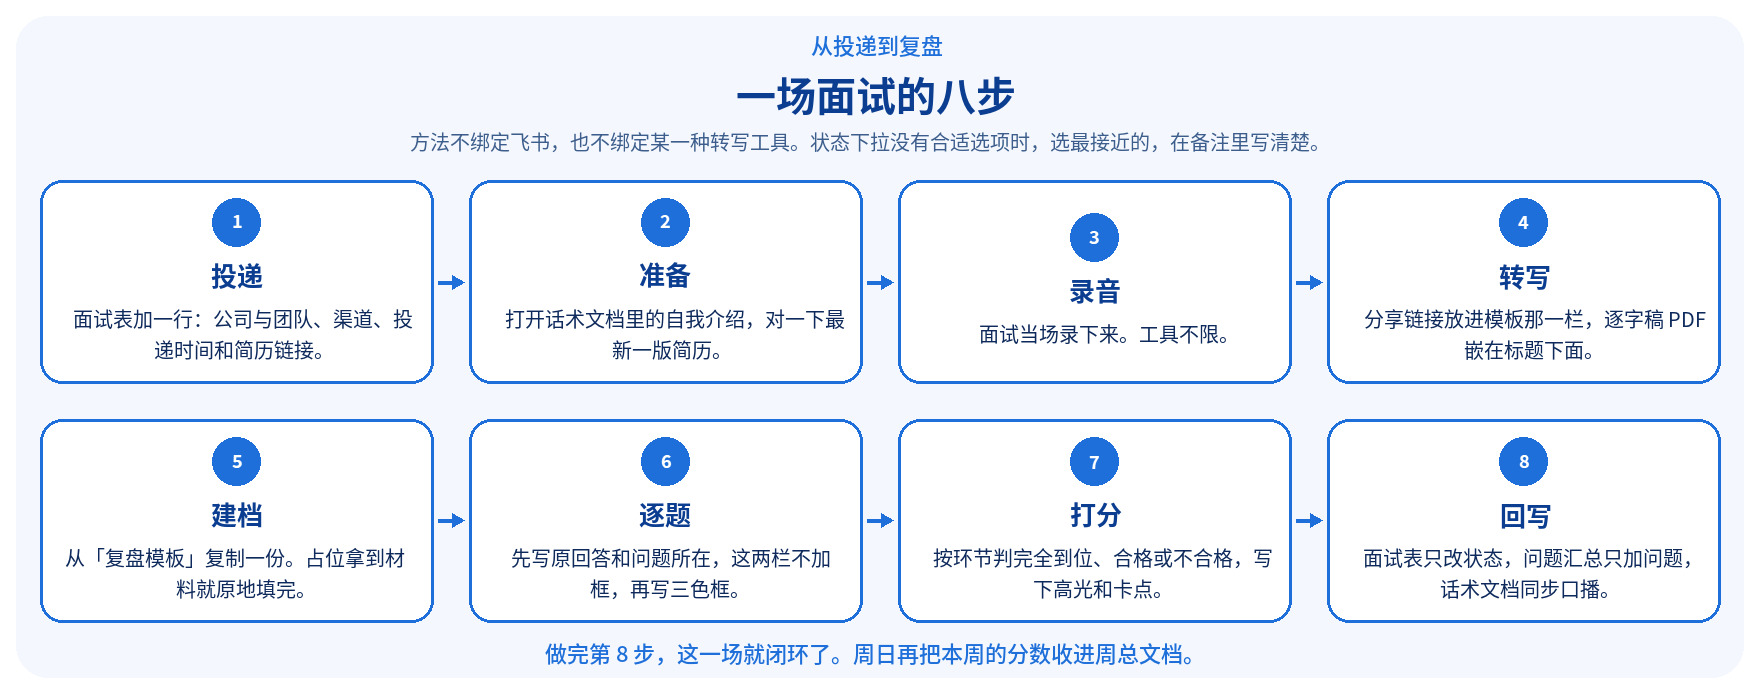
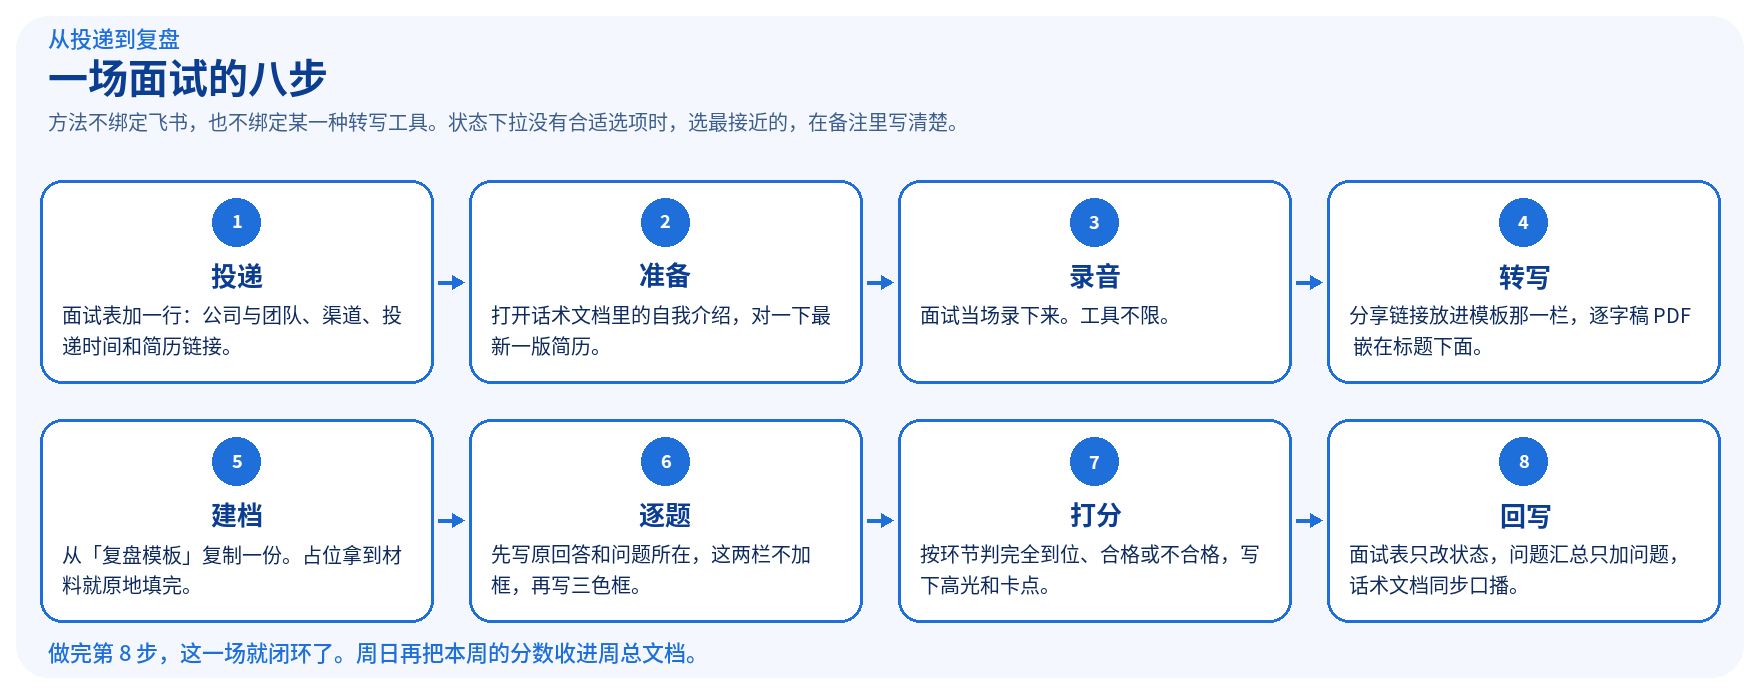
首页改回左对齐，卡片标题仍居中
正文、标题和鸽小包不再套居中容器。示意图里只保留两处居中：圆圈中的数字，以及每张卡片里的标题。卡片正文回到左对齐。

diff --git a/README.md b/README.md
@@ -1,5 +1,3 @@
-<div align="center" markdown="1">
-
 <img src="og.png" alt="AI 产品经理面试复盘手册：把每一场面试变成可复用的资产。一个入口、一岗一行、一场一档、三色话术、可量化打分。" width="820">
 
 # AI 产品经理面试复盘手册
@@ -13,26 +11,24 @@
 [![许可](https://img.shields.io/badge/%E8%AE%B8%E5%8F%AF-CC%20BY%204.0-0B3D91?style=flat-square)](#许可)
 
 <table>
-<tr><td align="center"><b>下载</b></td><td align="center">
+<tr><td align="right"><b>下载</b></td><td align="left">
 
 <a href="https://github.com/CageEcho/howtointerviewbetter/archive/refs/heads/main.zip">仓库 ZIP</a>
 
 </td></tr>
-<tr><td align="center"><b>查阅</b></td><td align="center">
+<tr><td align="right"><b>查阅</b></td><td align="left">
 
 <a href="#这套东西是什么">这套东西是什么</a> · <a href="#适合谁">适合谁</a> · <a href="#快速开始">快速开始</a> · <a href="#目录">目录</a> · <a href="book/">正文</a> · <a href="templates/">模板</a> · <a href="examples/示例-某软件公司二面复盘.md">脱敏样例</a>
 
 </td></tr>
-<tr><td align="center"><b>照着做</b></td><td align="center">
+<tr><td align="right"><b>照着做</b></td><td align="left">
 
 <a href="skills/interview-review/README.md">让 AI 照书做复盘（skill）</a> · <a href="skills/interview-review/feishu-setup.md">一键建飞书结构</a> · <a href="#一场面试从投递到复盘">从投递到复盘</a> · <a href="#每周节奏">每周节奏</a> · <a href="templates/复盘文档模板.md">复盘模板</a> · <a href="templates/打分表.md">打分表</a>
 
 </td></tr>
 </table>
 
-<p align="center">
 <img src="docs/images/mascot-rows/hi.png" width="760" alt="鸽小包在这儿。它是这本手册的吉祥物：一只白色、圆得像包子的鸽子。往下看：这套方法是什么、两条怎么开始的路、十五个飞书板块、一场面试从投递走到复盘，以及绿红黄三色框什么时候用。">
-</p>
 
 
 <img src="docs/images/divider.png" width="880" alt="">
@@ -73,9 +69,7 @@
 
 ## 快速开始
 
-<p align="center">
 <img src="docs/images/mascot-rows/yessir.png" width="839" alt="先把仓库放到本机，后面的命令都在仓库根目录执行。两条路线挑一条。路线 ① 不装任何东西；路线 ② 给还想让助手往飞书里写的人。">
-</p>
 
 
 ```bash
@@ -129,9 +123,7 @@ cd howtointerviewbetter
 
 ## 安装 Skill
 
-<p align="center">
 <a href="skills/interview-review/README.md"><img src="docs/images/mascot-rows/heart-eyes.png" width="796" alt="让 AI 照书做复盘（skill）。装上之后，把转写链接和逐字稿交给它。它按手册写复盘、打分，并列出要回写的三处。第一次用，对它说「帮我建面试复盘飞书结构」。"></a>
-</p>
 
 
 <img src="docs/images/skill-install.png" alt="Skill 安装位置：Claude Code 放在 .claude/skills，Codex 放在 .agents/skills，其他助手放在各自的 skills 目录或把 SKILL.md 贴进对话。要复制整份 interview-review 目录。" width="880">
@@ -504,11 +496,9 @@ flowchart LR
 
 ## 常见问题
 
-<p align="center">
 <img src="docs/images/mascot-rows/sleep.png" width="467" alt="先看这几条。脚本报错的对照表在下面。">
-</p>
 
-<p align="center">脚本报错的对照表在 <a href="skills/interview-review/feishu-app-setup.md#三常见报错对照">常见报错对照</a>。</p>
+脚本报错的对照表在 <a href="skills/interview-review/feishu-app-setup.md#三常见报错对照">常见报错对照</a>。
 
 
 - 想零配置拿到结构：用「快速开始 · 路线 ①」复制公开案例。脚本报错先查 [常见报错对照](skills/interview-review/feishu-app-setup.md#三常见报错对照)。
@@ -582,16 +572,10 @@ flowchart LR
 
 ## 赞赏
 
-<p align="center">
 <img src="docs/images/reward-row.png" width="893" alt="如果这套复盘方法帮你拿到了面试或 offer，欢迎扫码请我喝杯咖啡，所有内容永久免费。">
-</p>
 
 ## 商务合作
 
-<p align="center">📮 zsysabre@163.com</p>
+📮 zsysabre@163.com
 
-<p align="center">
 <img src="docs/images/coop-row.png" width="526" alt="看到这儿就可以去写下一场了。挑一两条先用起来就算数。">
-</p>
-
-</div>
